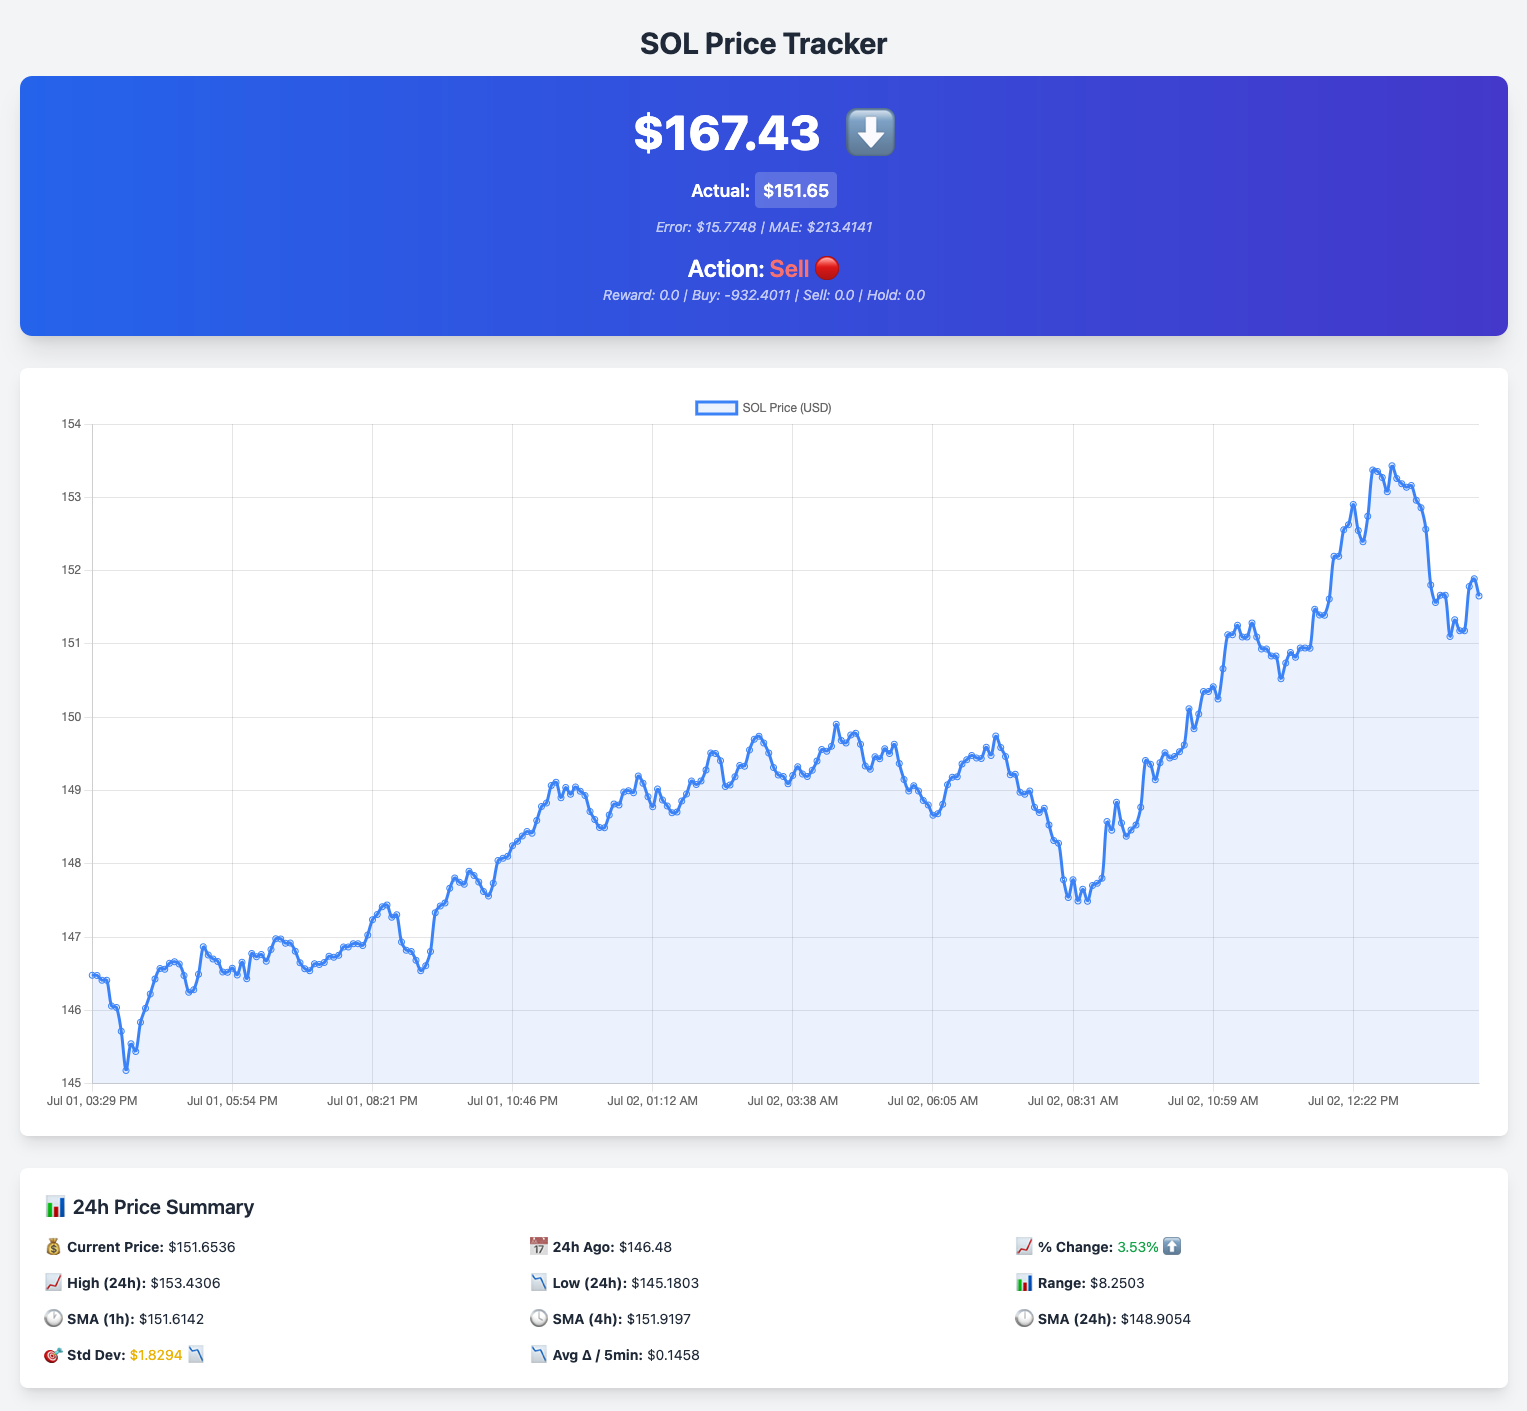
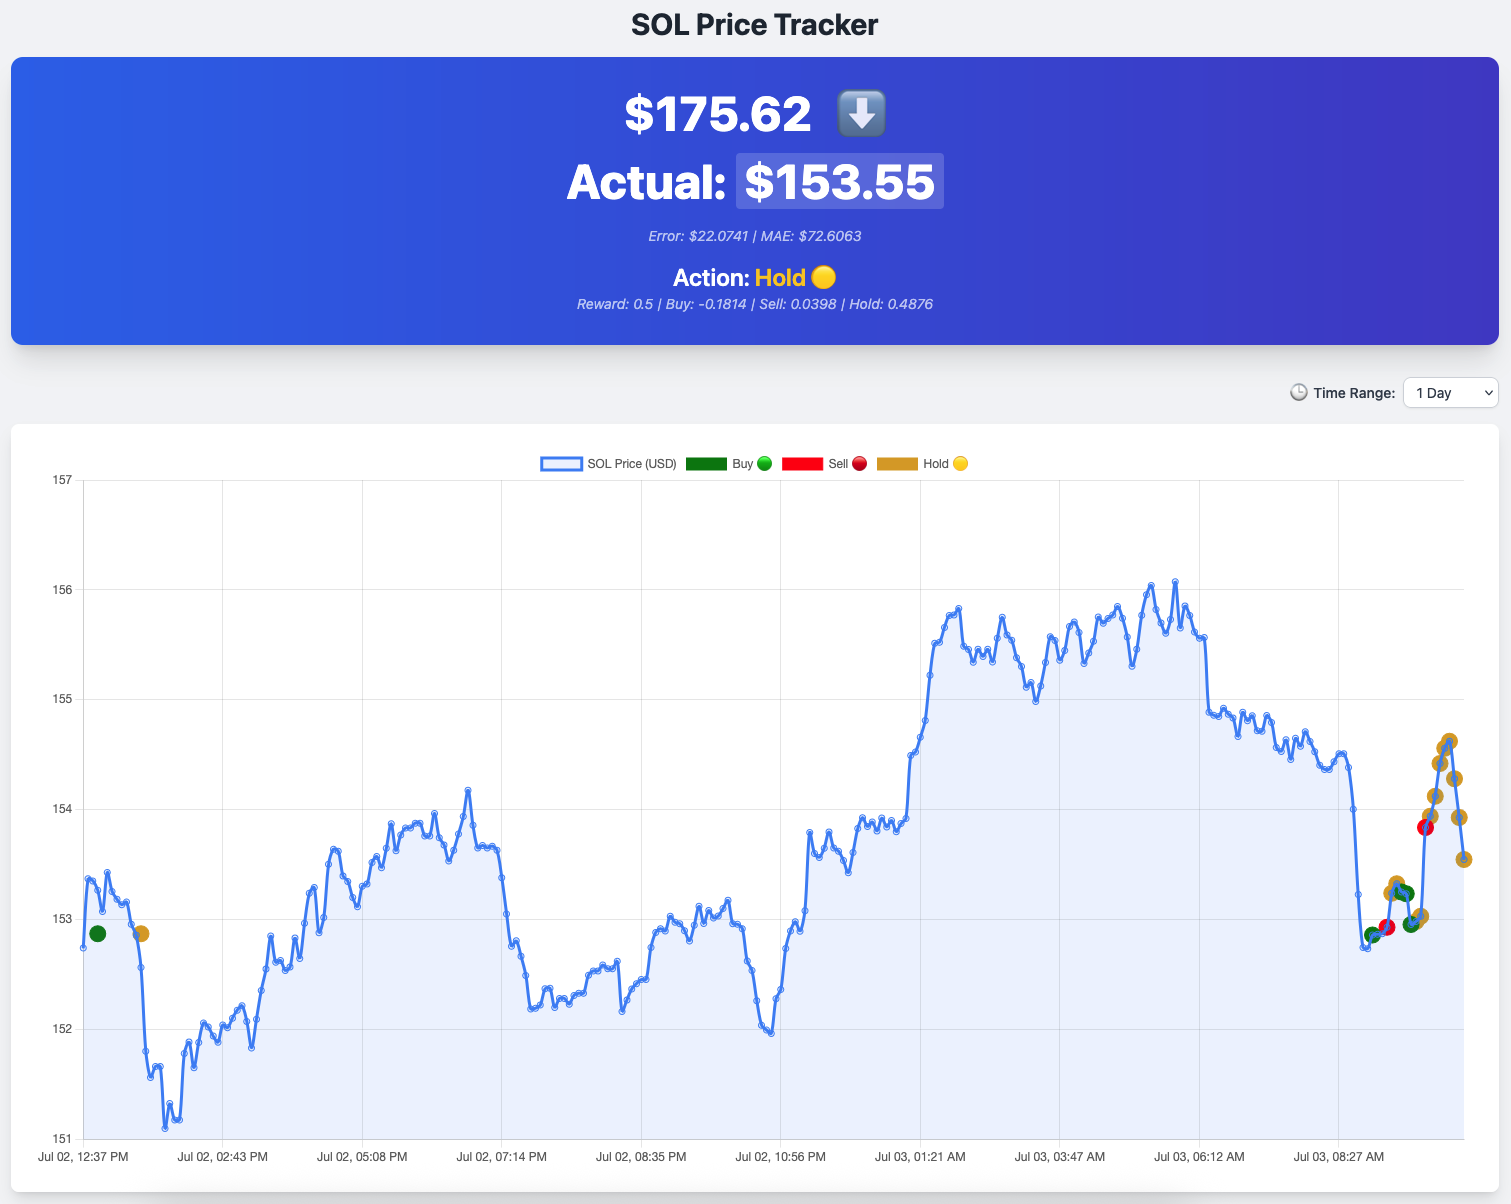
updated screenshot

diff --git a/app.py b/app.py
@@ -361,62 +361,16 @@ def index():
         analytics=analytics  # Pass analytics data to template
     )
 
-@app.route("/sol-tracker")
-def sol_tracker():
-    # Get selected time range from query param
-    selected_range = request.args.get("range", "day")  # Default to 1 day
-
-    # Define how many entries to fetch based on selected range (5-min intervals)
-    range_map = {
-        "hour": 12,
-        "day": 288,
-        "week": 2016,
-        "month": 8640,
-        "year": 105120,
-    }
-    limit = range_map.get(selected_range, 288)
-
-    # Fetch price data
-    fetcher = SOLPriceFetcher()
-    all_data = fetcher.get_price_history(limit=limit)
-    fetcher.close()
-
-    timestamps = []
-    prices = []
-
-    for row in reversed(all_data):  # oldest to newest
-        ts = row[1]  # ISO timestamp
-        price = row[2]
-        dt = datetime.fromisoformat(ts)
-        short_ts = dt.strftime("%b %d, %I:%M %p")
-        timestamps.append(short_ts)
-        prices.append(price)
-
-    # Fetch predictions and bandit logs from database
-    prediction_conn = sqlite3.connect("sol_prices.db")
-    prediction_cursor = prediction_conn.cursor()
-
-    prediction_cursor.execute("""
+def get_predictions(cursor, limit=5):
+    cursor.execute(f"""
         SELECT timestamp, predicted_rate, actual_rate, error, mae
         FROM sol_predictions
         ORDER BY created_at DESC
-        LIMIT 5
+        LIMIT {limit}
     """)
-    prediction_rows = prediction_cursor.fetchall()
-
-    prediction_cursor.execute("""
-        SELECT timestamp, action, reward, prediction_buy, prediction_sell, prediction_hold
-        FROM bandit_logs
-        ORDER BY created_at DESC
-        LIMIT 5
-    """)
-    bandit_rows = prediction_cursor.fetchall()
-
-    prediction_conn.close()
-
-    # Reformat prediction data
+    rows = cursor.fetchall()
     predictions = []
-    for row in prediction_rows:
+    for row in rows:
         pred_ts = datetime.fromisoformat(row[0]).strftime("%b %d, %I:%M %p")
         predictions.append({
             "timestamp": pred_ts,
@@ -425,10 +379,18 @@ def sol_tracker():
             "error": round(row[3], 4),
             "mae": round(row[4], 4)
         })
+    return predictions
 
-    # Reformat bandit log data
+def get_bandits(cursor, limit=5):
+    cursor.execute(f"""
+        SELECT timestamp, action, reward, prediction_buy, prediction_sell, prediction_hold
+        FROM bandit_logs
+        ORDER BY created_at DESC
+        LIMIT {limit}
+    """)
+    rows = cursor.fetchall()
     bandit_logs = []
-    for row in bandit_rows:
+    for row in rows:
         log_ts = datetime.fromisoformat(row[0]).strftime("%b %d, %I:%M %p")
         bandit_logs.append({
             "timestamp": log_ts,
@@ -438,8 +400,43 @@ def sol_tracker():
             "prediction_sell": round(row[4], 4) if row[4] is not None else None,
             "prediction_hold": round(row[5], 4) if row[5] is not None else None
         })
+    return bandit_logs
 
-    # === Stats Calculations ===
+@app.route("/sol-tracker")
+def sol_tracker():
+    selected_range = request.args.get("range", "day")
+    range_map = {
+        "hour": 12,
+        "day": 288,
+        "week": 2016,
+        "month": 8640,
+        "year": 105120,
+    }
+    limit = range_map.get(selected_range, 288)
+
+    fetcher = SOLPriceFetcher()
+    all_data = fetcher.get_price_history(limit=limit)
+    fetcher.close()
+
+    timestamps = []
+    prices = []
+    for row in reversed(all_data):  # oldest to newest
+        ts = row[1]
+        price = row[2]
+        dt = datetime.fromisoformat(ts)
+        short_ts = dt.strftime("%b %d, %I:%M %p")
+        timestamps.append(short_ts)
+        prices.append(price)
+
+    conn = sqlite3.connect("sol_prices.db")
+    cursor = conn.cursor()
+
+    predictions = get_predictions(cursor, limit=limit)
+    bandit_logs = get_bandits(cursor, limit=limit)  # match bandits to price points for charting
+
+    conn.close()
+
+    # Stats calculations (unchanged)
     def simple_moving_average(prices, window):
         if len(prices) < window:
             return None
@@ -483,6 +480,7 @@ def sol_tracker():
         bandit_logs=bandit_logs,
         selected_range=selected_range
     )
+
 
 
 def background_fetch_loop():
